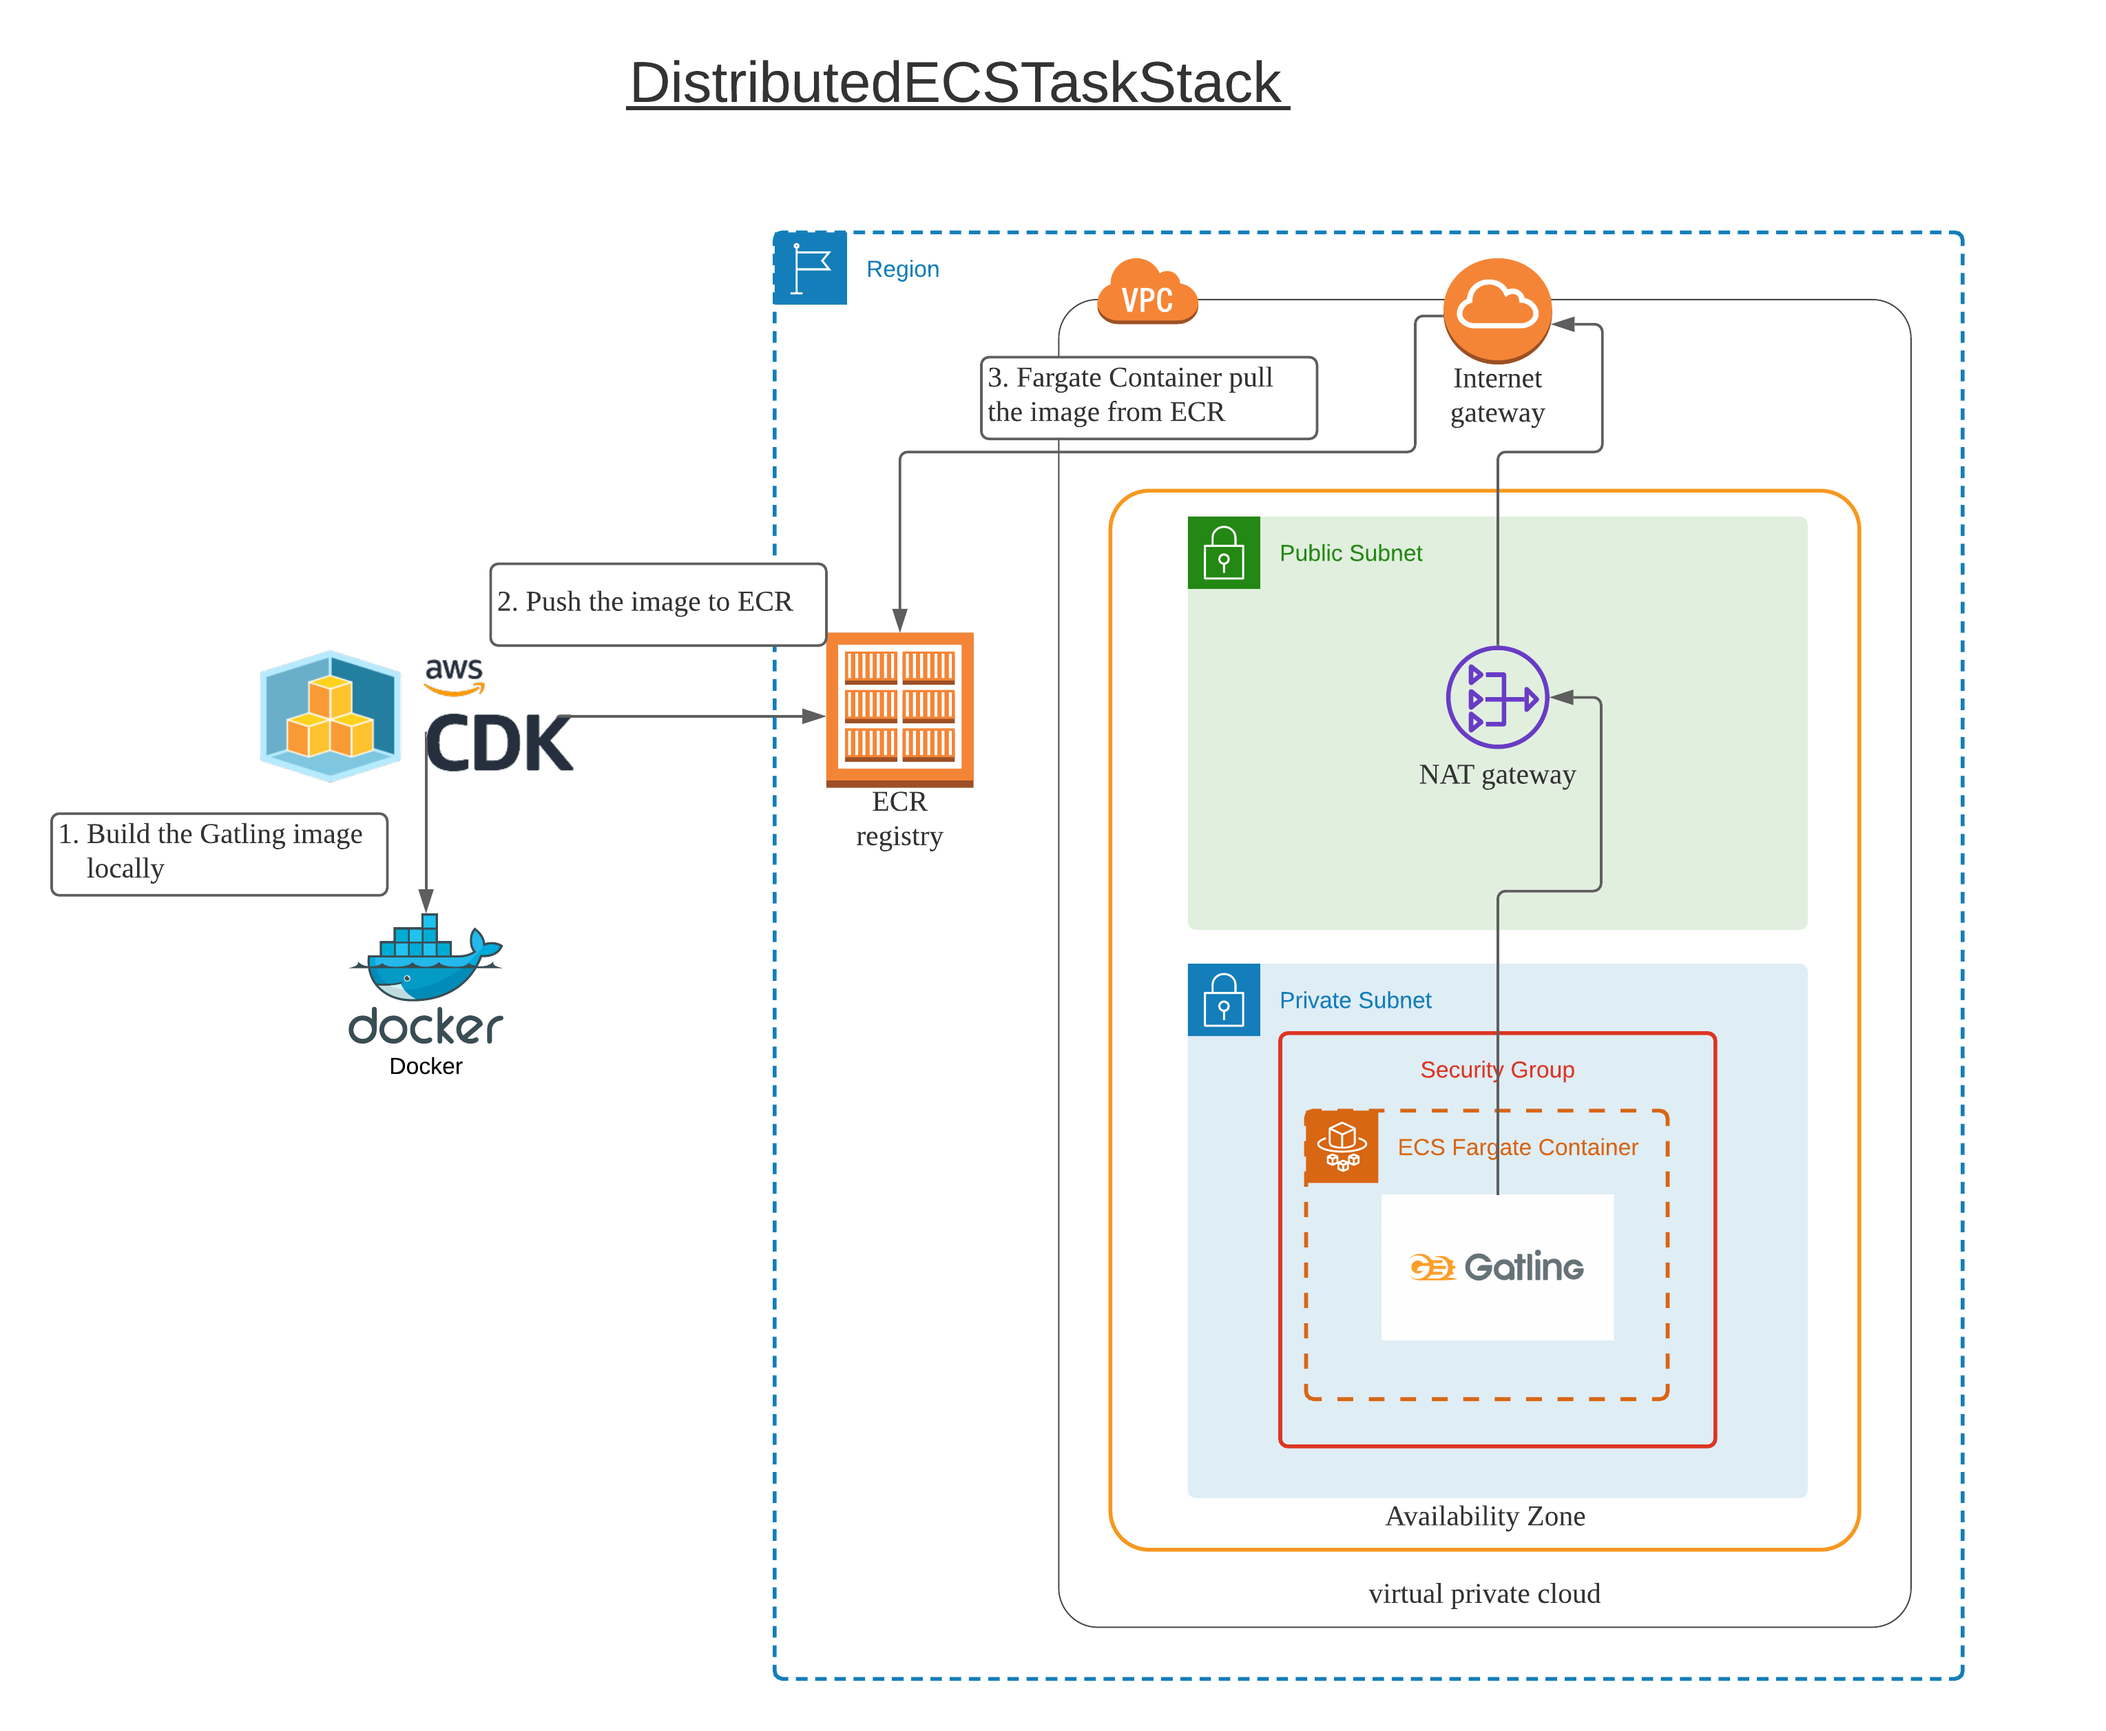
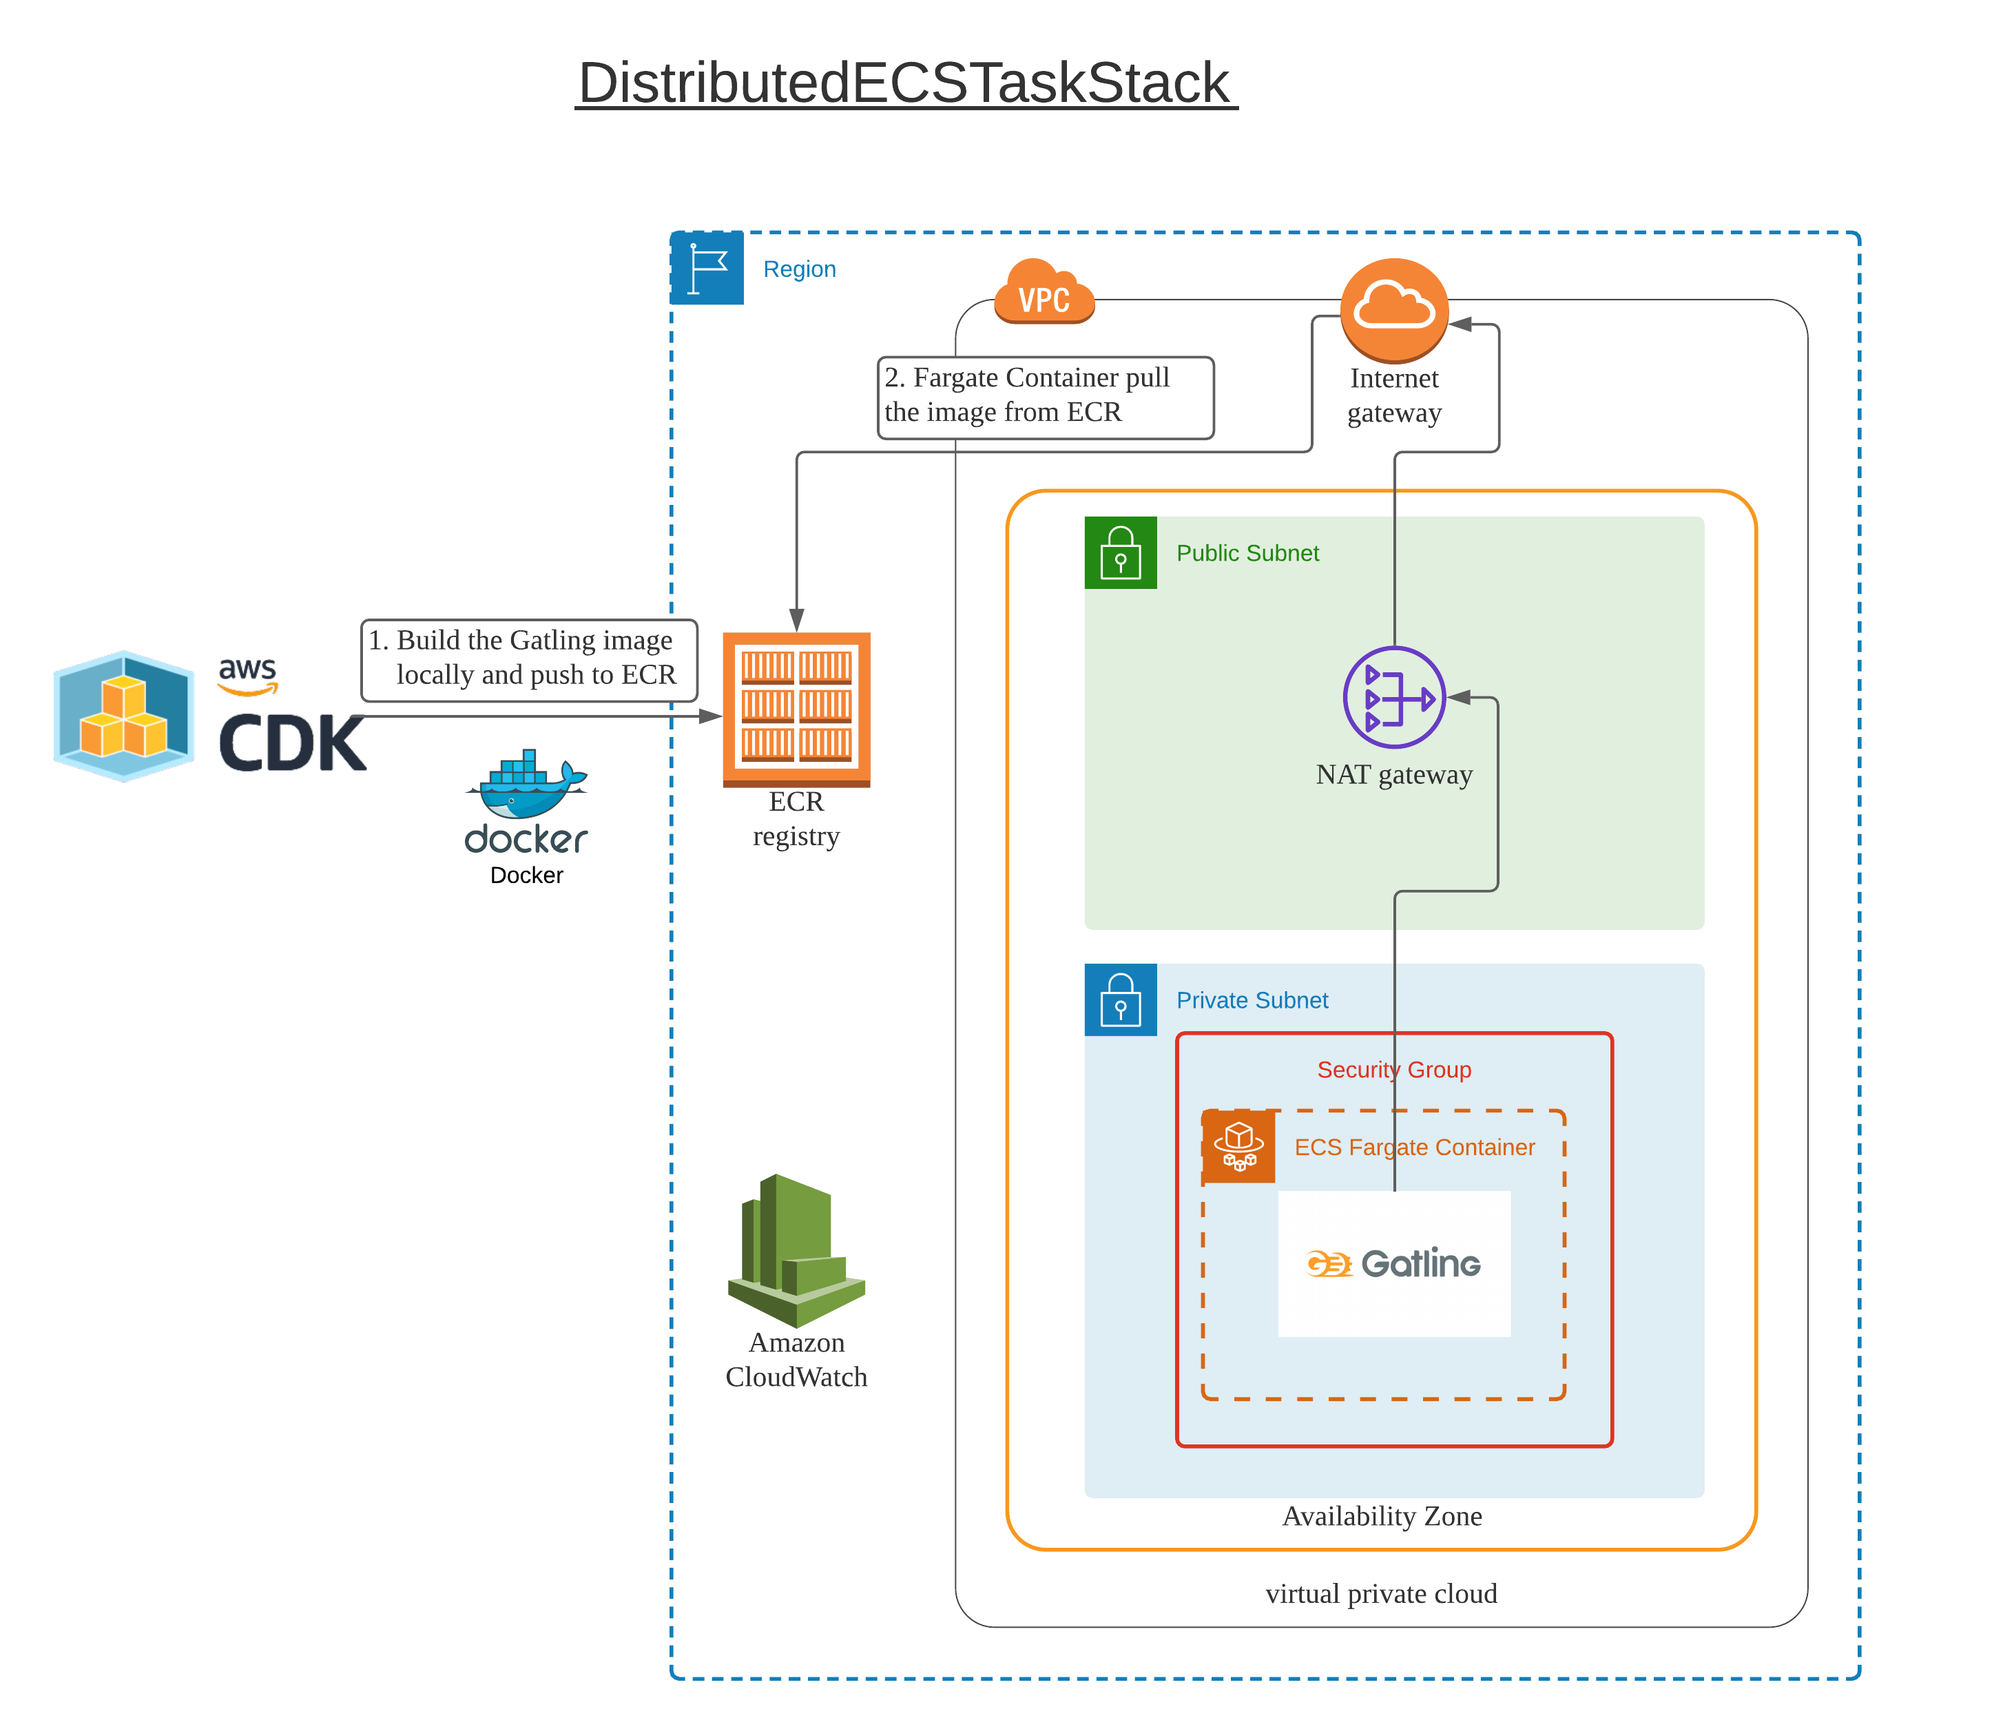
added LogGroup resource

diff --git a/cdk/lib/ecsTaskStack.ts b/cdk/lib/ecsTaskStack.ts
@@ -2,7 +2,7 @@ import ecs = require('@aws-cdk/aws-ecs');
 import ec2 = require('@aws-cdk/aws-ec2');
 import iam = require("@aws-cdk/aws-iam");
 import cdk = require('@aws-cdk/core');
-// import { ApplicationLoadBalancedFargateService } from "@aws-cdk/aws-ecs-patterns";
+import log = require('@aws-cdk/aws-logs');
 import path = require('path');
 
 export class DistributedECSTaskStack extends cdk.Stack {
@@ -31,6 +31,11 @@ export class DistributedECSTaskStack extends cdk.Stack {
   
       const logging = new ecs.AwsLogDriver({
         streamPrefix: "gatling",
+        logGroup: new log.LogGroup(this, 'gatlingLogGroup', {
+          logGroupName: 'perfTest',
+          retention: log.RetentionDays.ONE_DAY,
+          removalPolicy: cdk.RemovalPolicy.DESTROY
+        })
       })    
 
       const taskDef = new ecs.FargateTaskDefinition(this, "TaskDefinition", {
